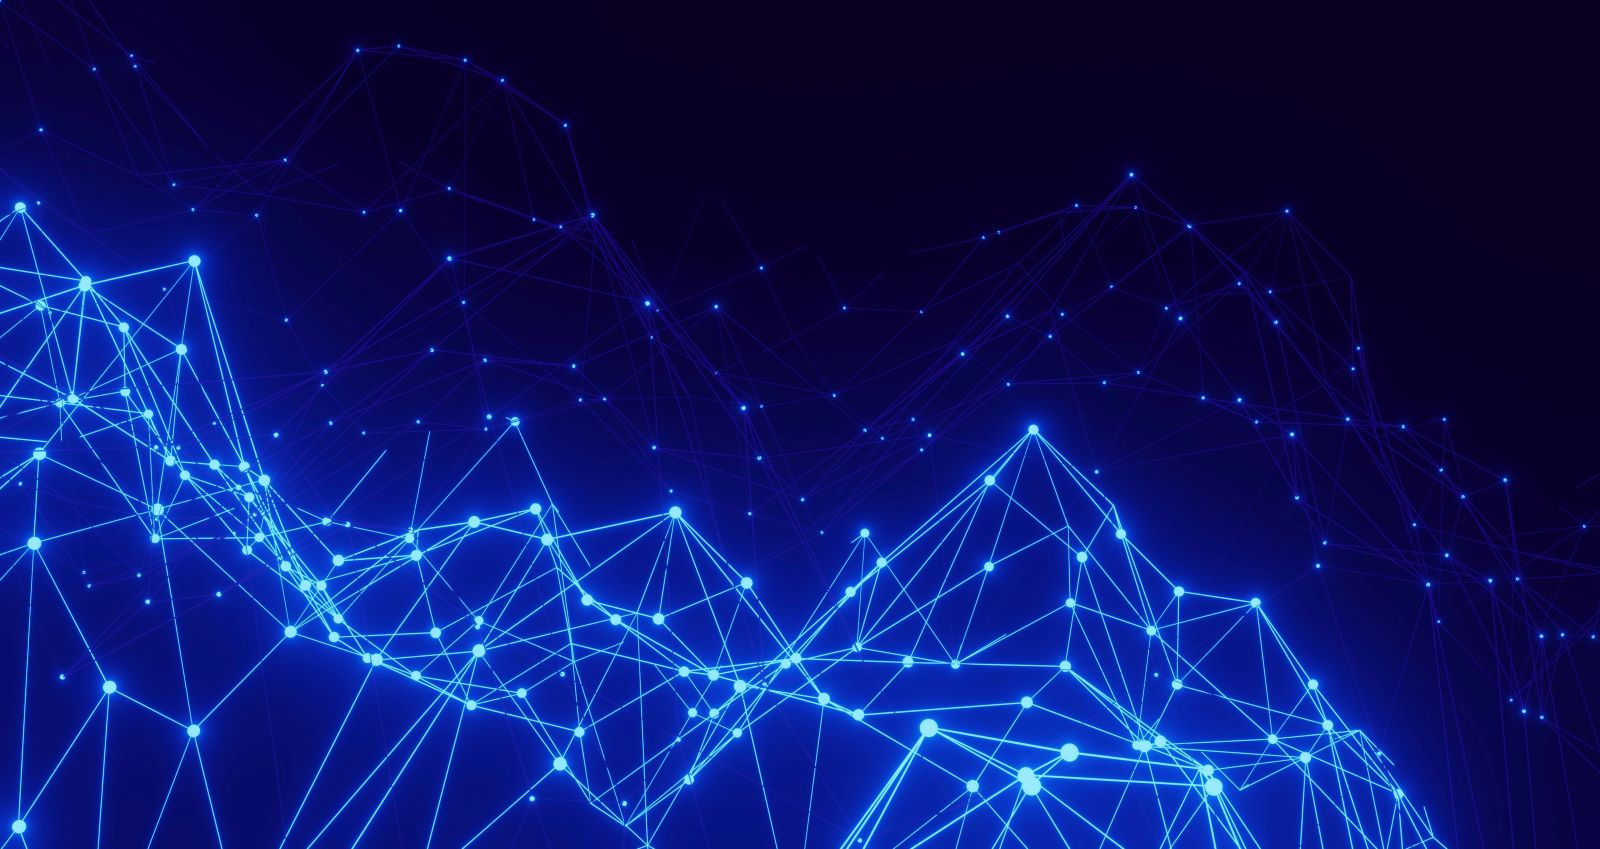
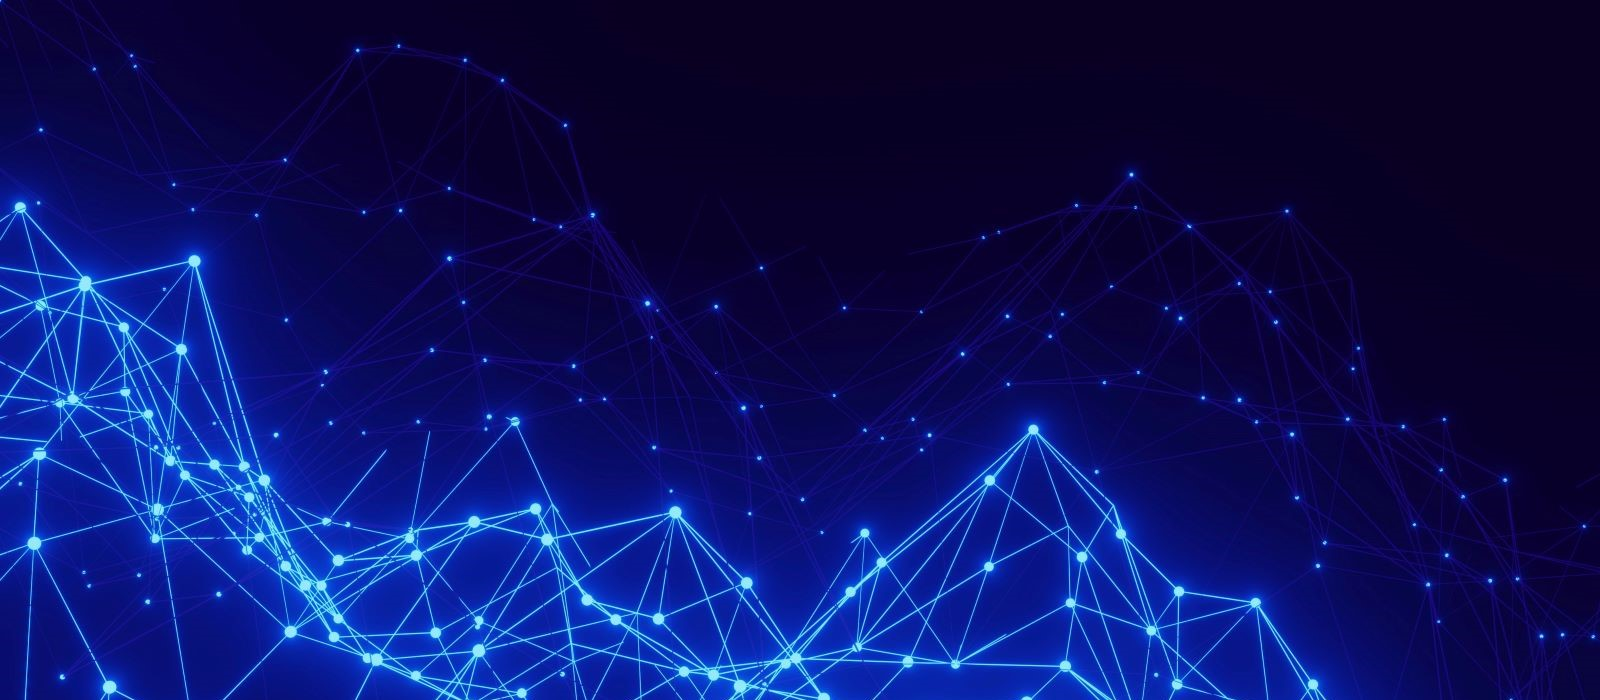
loader

diff --git a/templates/dashboard/dataform.html b/templates/dashboard/dataform.html
@@ -25,7 +25,7 @@
 <!-- Header - set the background image for the header in the line below-->
 <header class="py-5 bg-image-full" style="background-image: url('{% static 'assets/img/schneider.jpg' %}')">
     <div class="text-center my-5">
-        <img class="img-fluid rounded-circle mb-4" src="https://dummyimage.com/150x150/6c757d/dee2e6.jpg" alt="..."/>
+        <img class="img-fluid rounded-circle mb-4" src="{% static 'assets/img/preloader.gif' %}" alt="..."/>
         <h1 class="text-white fs-3 fw-bolder">Data Upload Page</h1>
         <p class="text-white-50 mb-0">Upload Forms</p>
     </div>
